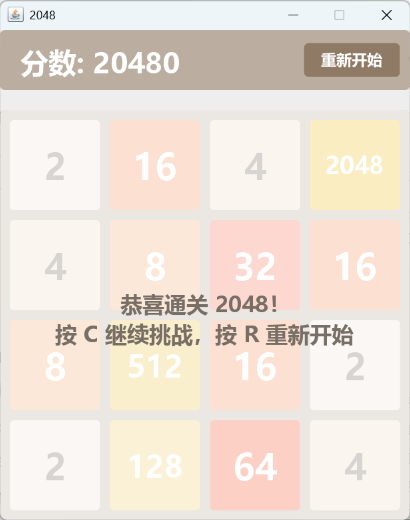
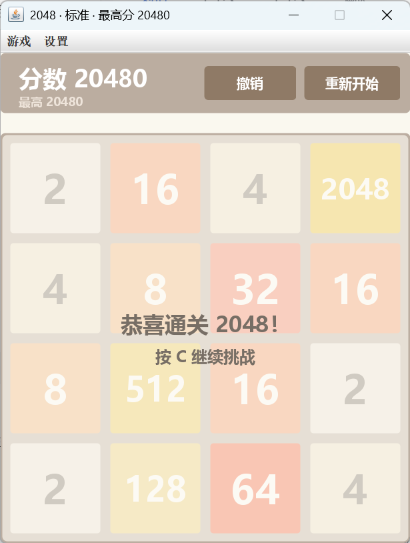
docs: 按新界面更新截图与 README

diff --git a/README.md b/README.md
@@ -2,6 +2,8 @@
 
 一个基于 Java Swing 实现的 2048 小游戏，Java 程序设计课程的实验项目。
 
+从最初的单文件版本重构而来：现在按 model / view / storage / ai 分层，配有 44 个 JUnit 用例和 Maven 构建。
+
 ## 界面预览
 
 <table>
@@ -11,74 +13,137 @@
   </tr>
   <tr>
     <td align="center"><img src="screenshots/pass.png" width="280" alt="通关（按 C 可继续）"/><br/>通关（按 C 可继续）</td>
-    <td align="center"><img src="screenshots/lose.png" width="280" alt="游戏结束（棋盘已满，无可合并）"/><br/>游戏结束（棋盘已满，无可合并）</td>
+    <td align="center"><img src="screenshots/lose.png" width="280" alt="游戏结束（按 R 重新开始）"/><br/>游戏结束（按 R 重新开始）</td>
   </tr>
 </table>
 
 > **说明**：「通关」截图中的 2048 棋盘是演示效果——为了展示通关遮罩，截图程序直接把棋盘置成含 2048 的状态来触发判定。作者本人目前尚未通关，欢迎大家积极挑战；通关后可以把通关截图发到仓库的 Discussion 区一起交流！
 
-## 当前状态
+## 功能特性
 
-### 功能特性
+**核心玩法**
 
-- 4×4 棋盘，标准 2048 玩法
-- 方向键（↑ ↓ ← →）控制方块移动与合并
-- 右上角「重新开始」按钮，鼠标点击即可重开；也可随时按 `R` 重开
-- 顶部实时显示当前分数
-- 合成 2048 方块触发通关提示，此局暂时定格，按 `C` 可继续挑战更高分
+- 4×4 棋盘，标准 2048 规则
+- 方向键（↑ ↓ ← →）或 `W` `A` `S` `D` 控制移动
+- 鼠标拖拽棋盘也能移动，四个方向按拖动方向判定
+- 方块滑动与合并带 110 ms 缓动动画
+- 合成 2048 触发通关提示，此局定格，按 `C` 继续挑战更高分
 - 无空格且无相邻可合并方块时游戏结束
-- 仿原版 2048 的方块配色（2 ~ 8192）
-- 游戏结束 / 通关时在棋盘区显示半透明遮罩，分数栏与按钮保持清晰可见
 
-### 实现说明
+**辅助功能**
 
-项目为单文件实现（`Game2048.java`），核心设计如下：
+- 撤销一步：按 `U`（或 `Z`）回退，最多保留 30 步历史
+- 最高分持久化到 `~/.game2048-highscore`，标题栏与分数栏同时显示
+- 难度可选：简单 / 标准 / 困难，分别按 10% / 25% / 50% 的概率生成 4
+- 浅色 / 深色主题切换
+- 音效：移动、合并、通关、失败各有合成音，可随时关闭；系统没有音频设备时自动静默
+- AI 提示：按 `H` 由 expectimax 搜索给出推荐方向，棋盘上显示方向箭头
+- AI 自动演示：按 `P` 让 AI 每 120 ms 走一步，中途再按一次停止
 
-- **数据结构**：使用 `int[SIZE][SIZE]` 二维数组存储棋盘状态，`0` 表示空格；`SIZE = 4` 定义棋盘边长，窗口与棋盘尺寸都由它和方块尺寸常量推导。
-- **移动与合并**：`slideRow()` 是纯函数——对单行先压缩（去除空格 0）、再对相邻相同数字合并（每个方块每步只合并一次）、最后再次压缩，返回「是否发生移动」与本行得分，不修改任何全局状态；由 `move()` 汇总分数。
-- **四个方向**：通过 `rotate()` 将棋盘整体顺时针旋转，把上、下、右三个方向统一转换为"向左移动"，四个方向共用同一套合并逻辑。
-- **随机方块**：`addRandomTile()` 在剩余空格中等概率生成 2 或 4（各 50%，比原版更硬核）。
-- **通关与结束**：`hasTile(2048)` 判定是否出现 2048 方块，只在首次达成时弹一次通关提示，`won` 标记保证继续游戏后不会重复触发；`isGameOver()` 检查棋盘无空格且任意相邻格子均不相等时判定游戏结束。
-- **界面渲染**：内部类 `GamePanel` 继承 `JPanel`，重写 `paintComponent()` 完成绘制，开启图形与文字抗锯齿；「重新开始」按钮为自绘圆角按钮，带悬停 / 按下反馈。
-- **字体适配**：运行时探测系统中可用的中文字体（微软雅黑 → 黑体 → 逻辑字体），避免字体名硬编码在别的系统上显示为方块。
-- **键盘交互**：方向键与 `R` / `C` 绑定在根面板的 `InputMap` / `ActionMap` 上（`WHEN_IN_FOCUSED_WINDOW`），因此点击按钮、切换焦点之后方向键依然有效。
+**界面**
 
-### 运行方式
+- 顶部显示当前分数、历史最高分，右侧是「撤销」「重新开始」按钮
+- 菜单栏「游戏」：重新开始、撤销一步、继续挑战、AI 提示、自动演示、退出
+- 菜单栏「设置」：难度、主题、音效
+- 游戏结束 / 通关时只在棋盘区盖半透明遮罩，分数栏与按钮保持清晰可见
+- 快捷键绑定在窗口级 `KeyEventDispatcher` 上，点过按钮或菜单后依然有效
 
-需要 JDK 8 及以上版本。
+## 快捷键
+
+| 按键 | 作用 |
+| --- | --- |
+| `↑` `↓` `←` `→` / `W` `A` `S` `D` | 移动方块 |
+| `U` / `Z` | 撤销一步 |
+| `R` | 重新开始 |
+| `C` | 通关后继续挑战 |
+| `H` | AI 提示下一步 |
+| `P` | 开始 / 停止 AI 自动演示 |
+| `M` | 开关音效 |
+| `T` | 切换浅色 / 深色主题 |
+
+## 项目结构
+
+```
+src/main/java/game2048/
+  Game2048.java          入口：装配 model / view 后启动窗口
+  model/
+    Board.java           棋盘与合并算法（slideRow 为纯函数）
+    MoveResult.java      一步移动的结果：得分、是否移动、每个方块的位移
+    TileMove.java        单个方块的位移记录（动画用）
+    RowSlide.java        单行滑动的结果
+    Direction.java       四个方向及其行列映射
+    Difficulty.java      难度与新方块概率
+    Game.java            游戏状态机：分数、最高分、撤销历史、胜负
+  view/
+    GameFrame.java       窗口、菜单、按钮、快捷键、自动演示
+    BoardPanel.java      棋盘绘制、动画、拖拽、遮罩、方向提示
+    FlatButton.java      自绘圆角按钮
+    Theme.java           配色与字体探测
+    SoundPlayer.java     合成音效播放
+  ai/
+    AiSolver.java        expectimax 搜索，用于提示与自动演示
+  storage/
+    HighScoreStore.java  最高分读写
+src/test/java/game2048/  44 个 JUnit 用例
+```
+
+## 实现说明
+
+- **棋盘与合并**：`Board.slideRow(int[])` 是纯函数——先压缩（去掉 0），再把相邻相同数字两两合并（每格每步只合并一次），最后再压缩；返回合并得分，不碰任何全局状态。`Board.move()` 在滑动前后对比位置，为每个方块记录 `TileMove`，界面据此做位移动画。
+- **四个方向**：`Direction` 提供行列映射，`Board.move()` 用旋转视图把四个方向统一成同一套「向一侧滑动」的逻辑。
+- **状态机**：`Game` 持有分数、最高分、`Status`（PLAYING / WON / OVER）和撤销栈。每次有效移动前压入快照（上限 30 步）；通关那一步不补随机方块，`hasWon()` 保证通关提示只弹一次；`continueAfterWin()` 把状态切回 PLAYING 并补判负。
+- **最高分**：`HighScoreStore` 用一个纯文本文件存最高分，路径默认 `~/.game2048-highscore`；读写异常全部吞掉，读不出或文件损坏时按 0 处理，不影响游戏。
+- **AI**：`AiSolver` 做深度 2 的 expectimax，评估函数综合空格数、行平滑度、单调性和最大值对数；没有合法移动时返回 `null`。
+- **界面**：`BoardPanel` 记录每步的方块位移，用 110 ms 缓动插值绘制，合并的目标格在动画期间先画空格；遮罩只覆盖棋盘矩形；`Theme` 在启动时探测可用中文字体（微软雅黑 → 黑体 → 逻辑字体），避免硬编码字体名在别的系统上显示成方块。
+
+## 构建与运行
+
+需要 JDK 8 及以上；用 Maven 构建还需要 Maven 3.6+。
 
 ```bash
-# 编译（源码含中文，必须指定 UTF-8 编码，否则中文 Windows 的默认 GBK 会把中文编乱）
-javac -encoding UTF-8 Game2048.java
+# 编译、跑测试、打包
+mvn clean package
 
 # 运行
-java Game2048
+java -jar target/game2048.jar
+```
+
+只想跑测试：
+
+```bash
+mvn test
+```
+
+不用 Maven 时也可以直接编译（源码含中文，必须显式指定 UTF-8）：
+
+```bash
+javac -encoding UTF-8 -d out $(find src/main/java -name '*.java')
+java -cp out game2048.Game2048
+```
+
+如果编译时出现 `warning: [path]` 之类的提示，检查一下 `CLASSPATH` 环境变量里是否还留着 `dt.jar`、`tools.jar`——这两个 jar 在 JDK 9 就已删除，把它们从 `CLASSPATH` 里去掉即可。
+
+Windows 的命令提示符不支持 `$(...)`，可用：
+
+```bat
+dir /s /b src\main\java\*.java > sources.txt
+javac -encoding UTF-8 -d out @sources.txt
+java -cp out game2048.Game2048
+```
+
+PowerShell 里 `@sources.txt` 会被当成 splatting 语法报 `ParserError`，给参数文件加引号，或者干脆直接把文件列表展开：
+
+```powershell
+javac -encoding UTF-8 -d out "@sources.txt"
+# 或者不生成参数文件
+javac -encoding UTF-8 -d out (Get-ChildItem -Recurse src\main\java -Filter *.java).FullName
+java -cp out game2048.Game2048
 ```
 
 ## 后续改进
 
-以下是后续可考虑的改进方向，按类别整理：
-
-### 游戏机制
-
-- **撤销上一步（Undo）**：记录每步移动前的棋盘状态，按 `Z` 或点击按钮回退一步，方便失误时挽救。
-- **最高分记录**：将历史最高分持久化到本地文件，重启程序后仍能查看。
-- **难度设置**：目前新方块按 50% / 50% 生成 2 或 4，可提供难度选项（简单 / 标准 / 困难），或把生成概率做成可配置项。
-
-### 交互与界面
-
-- **鼠标拖拽**：支持用鼠标拖拽方块移动，弥补纯键盘操作在上手成本上的不足。
-- **移动动画**：为方块滑动、合并、新方块生成添加平滑动画，让操作反馈更直观。
-- **音效**：合并、通关、失败时播放提示音，增强游戏沉浸感。
-- **界面主题**：支持浅色 / 深色主题切换，或提供多套配色方案。
-
-### AI 辅助
-
-- **提示功能**：按 `H` 键显示 AI 计算出的最佳下一步方向，帮助新手学习策略。
-- **自动演示**：按 `A` 键让 AI 自动玩一局，直观展示高分局是怎么打出来的。
-
-### 工程化
-
-- **多文件重构**：将单文件拆分出棋盘逻辑、渲染、入口等模块，便于维护与扩展。
-- **单元测试**：引入 JUnit，为移动 / 合并 / 结束判定等核心逻辑编写自动化测试（`slideRow()` 已是纯函数，可直接喂数组断言）。
-- **构建工具**：接入 Maven / Gradle 管理依赖与构建流程，替代直接 `javac` 编译。
+- **存档与读档**：把当前局面序列化，支持关掉程序后接着玩。
+- **撤销历史持久化**：目前撤销栈只存在内存里，重开后清空。
+- **统计面板**：记录局数、平均分、最大方块、通关次数。
+- **多套配色**：在浅色 / 深色之外再做几套复古或高对比配色。
+- **AI 深度可调**：当前固定深度 2，可开放设置并显示搜索耗时。
